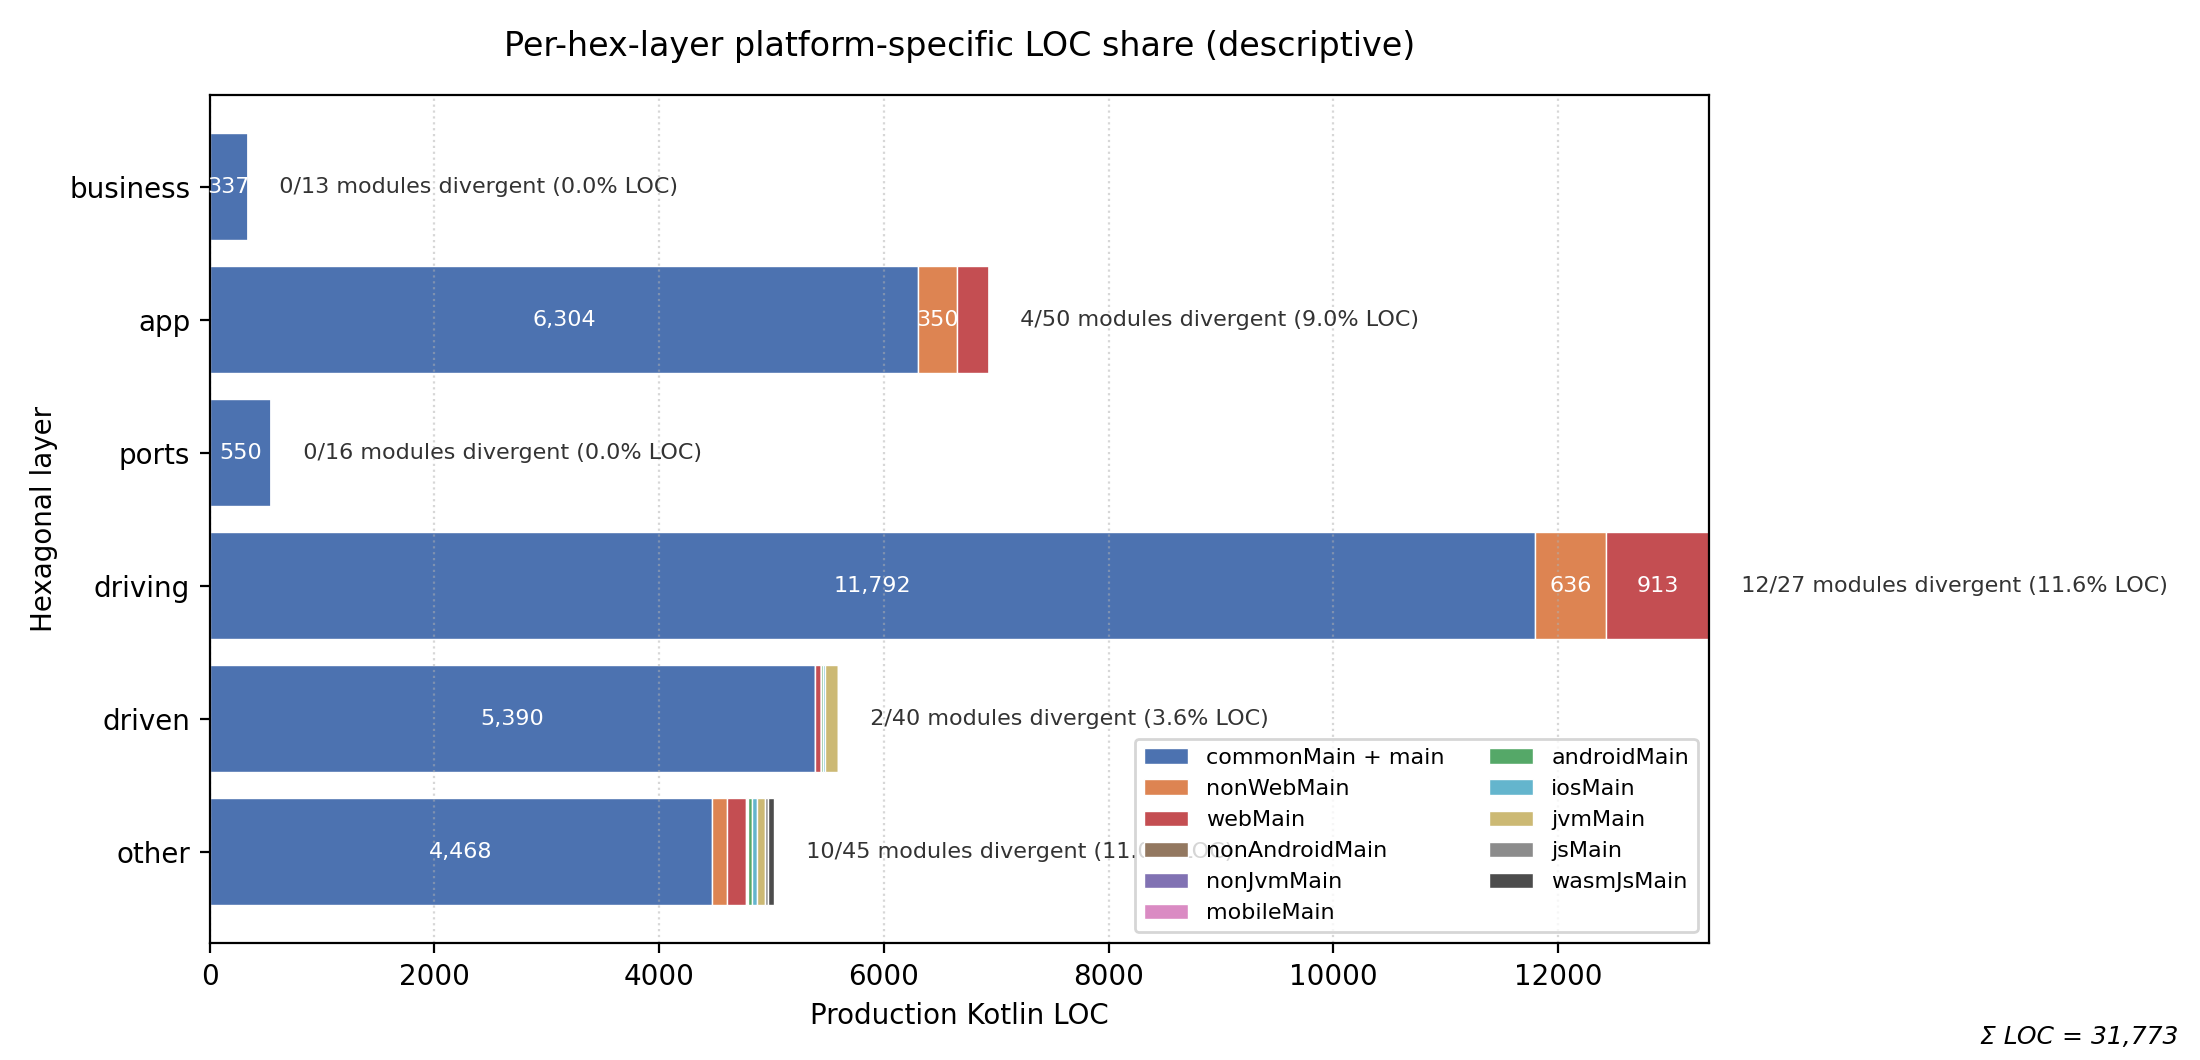
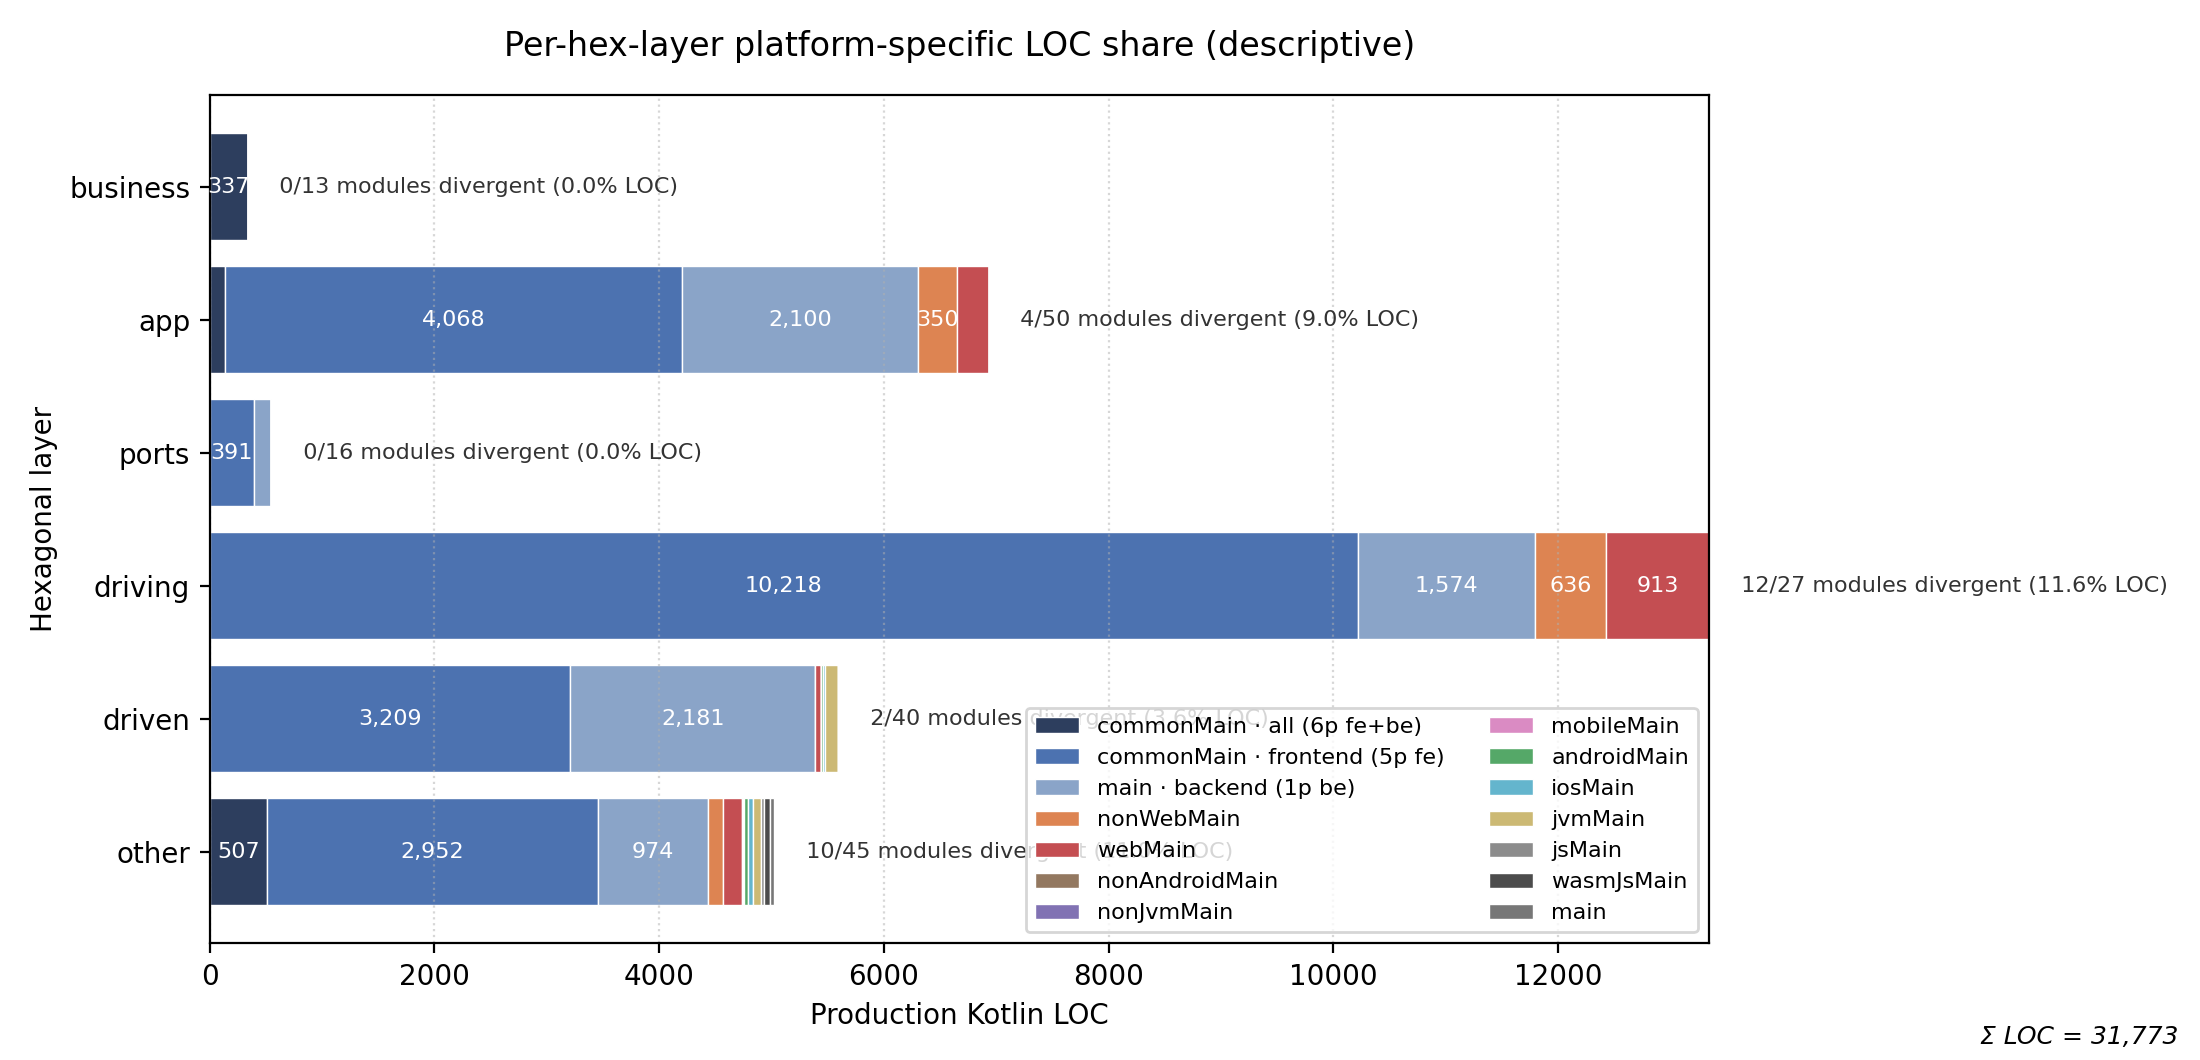
[J:MEP-0] PR #228 review: split neutral bucket in layer-divergence figure
Per-hex-layer LOC figure (fig_4_2_layer_divergence) was collapsing three
semantically distinct source-set classes into one visible "neutral" segment:
fe+be-wide commonMain (6-platform reach), fe-only commonMain (5-platform
reach), and BE-only main (1-platform reach). The CSV already carries the
distinction via (source_set x platform_set); the figure just needed to stop
flattening it at render time.

Introduce NEUTRAL_SEGMENT_SPEC mapping (source_set, platform_set) tuples to
three segment ids rendered in three shades of blue from darkest (fe+be) to
lightest (be-only). compute_layer_divergence aggregate is unchanged -- the
divergent-share metric still uses NEUTRAL_SOURCE_SETS as the boolean
predicate, so layer_divergence.csv is byte-identical.

The :androidApp x main x android outlier (AGP legacy main source set, 35
LOC) now renders as a plain "main" segment in the platform-specific group
rather than hiding under "commonMain + main".

diff --git a/analysis/figures.py b/analysis/figures.py
@@ -283,11 +283,29 @@ def figure_layer_platform_set_heatmap(df: pd.DataFrame) -> None:
 # (see analysis/phase-2-plan.md §A on sharing/evolvability duality). The counterfactual in
 # Part D is where correctness is argued; this figure just shows where Snag's divergence lives.
 #
-# The neutral bucket collapses both `commonMain` (multiplatform) and `main` (BE-only jvmMain)
-# because both are the layer's "shared" source set from that module family's perspective.
-# A BE module with code in `main` is not platform-divergent — it only has one platform.
+# The *share metric* treats both `commonMain` (multiplatform) and `main` (BE-only jvmMain)
+# as the layer's "shared" source set — `is_platform_specific` is the complement of
+# `source_set ∈ NEUTRAL_SOURCE_SETS`. A BE module with code in `main` is not platform-
+# divergent (it only has one platform), and a KMP module's commonMain is inherently shared.
+#
+# The *visual breakdown* goes further: commonMain in a FULL-family (fe+be) module reaches
+# six platforms, commonMain in a FRONTEND-family module reaches five, and BE `main` reaches
+# one. Collapsing those under a single legend entry hides the reach difference that makes
+# the figure interesting. `NEUTRAL_SEGMENT_SPEC` below keyed on `(source_set, platform_set)`
+# breaks the neutral bucket into three visually distinct segments; rows that don't match
+# any entry fall through to their raw source-set name and pick up platform-specific colours.
 
 NEUTRAL_SOURCE_SETS = frozenset({"commonMain", "main"})
+
+# (source_set, platform_set) -> (segment id, legend label, colour)
+NEUTRAL_SEGMENT_SPEC: dict[tuple[str, str], tuple[str, str, str]] = {
+    ("commonMain", "all"):      ("commonMain_all", "commonMain · all (6p fe+be)",  "#2d3e5e"),
+    ("commonMain", "frontend"): ("commonMain_fe",  "commonMain · frontend (5p fe)", "#4c72b0"),
+    ("main",       "backend"):  ("main_be",        "main · backend (1p be)",        "#8aa4c8"),
+}
+NEUTRAL_SEGMENT_ORDER = ["commonMain_all", "commonMain_fe", "main_be"]
+NEUTRAL_SEGMENT_COLORS = {seg_id: colour for (seg_id, _, colour) in NEUTRAL_SEGMENT_SPEC.values()}
+NEUTRAL_SEGMENT_LABELS = {seg_id: label for (seg_id, label, _) in NEUTRAL_SEGMENT_SPEC.values()}
 
 PLATFORM_SPECIFIC_SEGMENT_ORDER = [
     "nonWebMain",
@@ -314,8 +332,6 @@ PLATFORM_SPECIFIC_SEGMENT_COLORS = {
     "jsMain": "#8c8c8c",
     "wasmJsMain": "#4c4c4c",
 }
-
-NEUTRAL_SEGMENT_COLOR = "#4c72b0"  # calm blue, same family as ripple_buckets "local"
 
 _DIVERGENCE_COLUMNS = [
     "hex_layer",
@@ -391,10 +407,11 @@ def figure_layer_divergence(df: pd.DataFrame) -> None:
     prod = prod[~prod["source_set"].str.endswith("Test")]
     prod["layer"] = prod["hex_layer"].where(prod["hex_layer"] != "", "other")
     prod["kotlin_loc"] = prod["kotlin_loc"].astype(int)
-    prod["segment"] = prod["source_set"].where(
-        ~prod["source_set"].isin(NEUTRAL_SOURCE_SETS),
-        "neutral",
-    )
+    def _classify_segment(row: pd.Series) -> str:
+        spec = NEUTRAL_SEGMENT_SPEC.get((row["source_set"], row["platform_set"]))
+        return spec[0] if spec is not None else row["source_set"]
+
+    prod["segment"] = prod.apply(_classify_segment, axis=1)
     seg_matrix = prod.pivot_table(
         index="layer",
         columns="segment",
@@ -406,13 +423,16 @@ def figure_layer_divergence(df: pd.DataFrame) -> None:
     layers = list(agg["hex_layer"])
     seg_matrix = seg_matrix.reindex(index=layers, fill_value=0)
 
-    segment_order = ["neutral"]
+    segment_order: list[str] = []
+    for seg in NEUTRAL_SEGMENT_ORDER:
+        if seg in seg_matrix.columns and seg_matrix[seg].sum() > 0:
+            segment_order.append(seg)
     for seg in PLATFORM_SPECIFIC_SEGMENT_ORDER:
         if seg in seg_matrix.columns and seg_matrix[seg].sum() > 0:
             segment_order.append(seg)
     extras = sorted(
         c for c in seg_matrix.columns
-        if c not in segment_order and c != "neutral" and seg_matrix[c].sum() > 0
+        if c not in segment_order and seg_matrix[c].sum() > 0
     )
     segment_order.extend(extras)
     seg_matrix = seg_matrix.reindex(columns=segment_order, fill_value=0)
@@ -424,12 +444,11 @@ def figure_layer_divergence(df: pd.DataFrame) -> None:
     left = np.zeros(len(layers))
     for segment in segment_order:
         values = seg_matrix[segment].to_numpy(dtype=int)
-        color = (
-            NEUTRAL_SEGMENT_COLOR
-            if segment == "neutral"
-            else PLATFORM_SPECIFIC_SEGMENT_COLORS.get(segment, "#777777")
+        color = NEUTRAL_SEGMENT_COLORS.get(
+            segment,
+            PLATFORM_SPECIFIC_SEGMENT_COLORS.get(segment, "#777777"),
         )
-        label = "commonMain + main" if segment == "neutral" else segment
+        label = NEUTRAL_SEGMENT_LABELS.get(segment, segment)
         ax.barh(
             y_pos,
             values,
